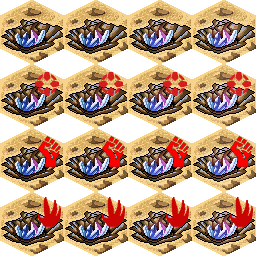
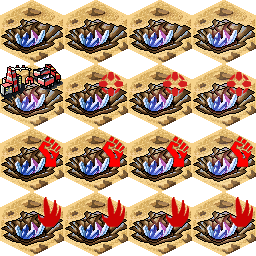
* Editor: Added startCredits and creditsPerMine game property. * Updated Minerals and HQ sprites.

Changed region(s): [[0.0, 0.25, 0.25, 0.4688]]

diff --git a/MobileClient/www/Javascript/Editor/Systems/EditorGamePropertiesController.js b/MobileClient/www/Javascript/Editor/Systems/EditorGamePropertiesController.js
@@ -13,13 +13,20 @@ var EditorGamePropertiesController = function (m_editorController, m_renderer) {
 	var m_$GamePropsWidth = $('#GamePropsWidthEditor');
 	var m_$GamePropsHeight = $('#GamePropsHeightEditor');
 	var m_$GamePropsLockSizes = $('#GamePropsLockSizesEditor');
+	var m_$GamePropsStartingCredits = $('#GamePropsStartingCreditsEditor');
+	var m_$GamePropsCreditsPerMine = $('#GamePropsCreditsPerMineEditor');
 
 	var m_subscriber = new DOMSubscriber();
+
+	var m_gameState = null;
+	var m_playersData = null;
 
 	//
 	// Entity system initialize
 	//
 	this.initialize = function () {
+
+		self._eworldSB.subscribe(EngineEvents.General.GAME_LOADING, onGameLoading);
 
 		m_subscriber.subscribe($('#BtnGamePropsEditor'), 'click', onGameProps);
 
@@ -33,11 +40,19 @@ var EditorGamePropertiesController = function (m_editorController, m_renderer) {
 		m_subscriber.unsubscribeAll();
 	};
 
+	var onGameLoading = function () {
+		m_gameState = self._eworld.extract(GameState);
+		m_playersData = self._eworld.extract(PlayersData);
+	}
+
 	var onGameProps = function (event) {
 		m_$GameProps.show();
 
 		m_$GamePropsWidth.val(m_renderer.getRenderedColumns());
 		m_$GamePropsHeight.val(m_renderer.getRenderedRows());
+
+		m_$GamePropsStartingCredits.val(m_gameState.startCredits);
+		m_$GamePropsCreditsPerMine.val(m_gameState.creditsPerMine);
 
 		m_$GamePropsLockSizes.prop('checked', self._eworld.blackboard[EditorBlackBoard.Properties.LOCK_SIZES]);
 	}
@@ -46,6 +61,9 @@ var EditorGamePropertiesController = function (m_editorController, m_renderer) {
 		m_$GameProps.hide();
 
 		m_editorController.setWorldSize(false, parseInt(m_$GamePropsHeight.val()), parseInt(m_$GamePropsWidth.val()));
+
+		m_gameState.startCredits = parseInt(m_$GamePropsStartingCredits.val());
+		m_gameState.creditsPerMine = parseInt(m_$GamePropsCreditsPerMine.val());
 
 		self._eworld.blackboard[EditorBlackBoard.Properties.LOCK_SIZES] = m_$GamePropsLockSizes.prop('checked');
 	}

diff --git a/MobileClient/www/index.html b/MobileClient/www/index.html
@@ -165,6 +165,42 @@
 								<td>Lock sizes:</td>
 								<td><input id="GamePropsLockSizesEditor" type="checkbox" value="false" /></td>
 							</tr>
+
+
+							<tr>
+								<td>Starting Credits:</td>
+								<td>
+									<select id="GamePropsStartingCreditsEditor">
+										<option value="50">50</option>
+										<option value="100">100</option>
+										<option value="150">150</option>
+										<option value="200">200</option>
+										<option value="250">250</option>
+										<option value="300">300</option>
+										<option value="400">400</option>
+										<option value="500">500</option>
+										<option value="750">750</option>
+										<option value="1000">1000</option>
+										<option value="1500">1500</option>
+										<option value="2000">2000</option>
+									</select>
+								</td>
+							</tr>
+							<tr>
+								<td>Credits per mine:</td>
+								<td>
+									<select id="GamePropsCreditsPerMineEditor">
+										<option value="50">50</option>
+										<option value="100">100</option>
+										<option value="150">150</option>
+										<option value="200">200</option>
+										<option value="250">250</option>
+										<option value="300">300</option>
+										<option value="400">400</option>
+										<option value="500">500</option>
+									</select>
+								</td>
+							</tr>
 						</tbody>
 					</table>
 

diff --git a/MobileClient/www/Assets/Editor.css b/MobileClient/www/Assets/Editor.css
@@ -1,15 +1,34 @@
 #UnitPropsEditorContainer, #GamePropsEditorContainer
 {
 	width: 320px;
-	height: 200px;
+	height: 400px;
 }
 
 #UnitPropsEditorContainer > table td:nth-child(1), #GamePropsEditorContainer > table td:nth-child(1)
 {
-	width: 100px;
+	text-align: right;
+	width: 150px;
 }
 #UnitPropsEditorContainer > table td:nth-child(2), #GamePropsEditorContainer > table td:nth-child(2)
 {
 	text-align: left;
 	width: 150px;
+}
+
+#UnitPropsEditorContainer input[type="text"], 
+#GamePropsEditorContainer input[type="text"]
+{
+	width: 120px;
+}
+
+#UnitPropsEditorContainer input[type="number"], 
+#GamePropsEditorContainer input[type="number"]
+{
+	width: 30px;
+}
+
+#UnitPropsEditorContainer select, 
+#GamePropsEditorContainer select
+{
+	width: 75px;
 }

diff --git a/MobileClient/www/Assets/Render/SpriteAnimations/World/HQ.js b/MobileClient/www/Assets/Render/SpriteAnimations/World/HQ.js
@@ -4,19 +4,30 @@ SpriteAnimations.World.HQ = {
 	resourcePath: 'HQ.png',
 	
 	frameWidth: 64,
-	frameHeight: 96,
+	frameHeight: 80,
 
-	anchorY: 32,
+	anchorY: 16,
 	
 	framesPerRow: 0,
 
-	speed: 10,
+	speed: 20,
+
+	params: {
+		playIdleConstant: true,
+	},
 	
 	sequences: [
 		{
 			name: 'Idle',
 			startIndex: 0,
 			frames: 1,
+		},
+		
+		{
+			name: 'Idle0',
+			startIndex: 0,
+			frames: 2,
+			wrapMode: Animator.WrapMode.Loop,
 		},
 	]
 };

diff --git a/Core/Gameplay/Systems/ResourcesSystem.js b/Core/Gameplay/Systems/ResourcesSystem.js
@@ -48,7 +48,7 @@ var ResourcesSystem = function () {
 		else
 			var citiesCount = 0;
 
-		var delta = m_gameState.creditsPerCity * citiesCount;
+		var delta = m_gameState.creditsPerMine * citiesCount;
 		m_gameState.credits[player.playerId] += delta;
 
 		m_gameState.currentCredits = m_gameState.credits[player.playerId];

diff --git a/Core/Gameplay/GameState.js b/Core/Gameplay/GameState.js
@@ -39,7 +39,7 @@ GameState.prototype.init = function () {
 	this.knownStructures[PlayersData.Relation.Ally] = [];
 
 	this.startCredits = 500;
-	this.creditsPerCity = 100;
+	this.creditsPerMine = 100;
 	this.credits = [];					// credits per player.
 	this.currentCredits = 0;
 }

diff --git a/MobileClient/www/Assets/Render/SpriteAnimations/World/Minerals.js b/MobileClient/www/Assets/Render/SpriteAnimations/World/Minerals.js
@@ -33,7 +33,7 @@ SpriteAnimations.World.Minerals = {
 		{
 			name: 'Idle-Empire-0',
 			startIndex: 4,
-			frames: 4,
+			frames: 1,
 			wrapMode: Animator.WrapMode.OnceReverse,
 		},
 
